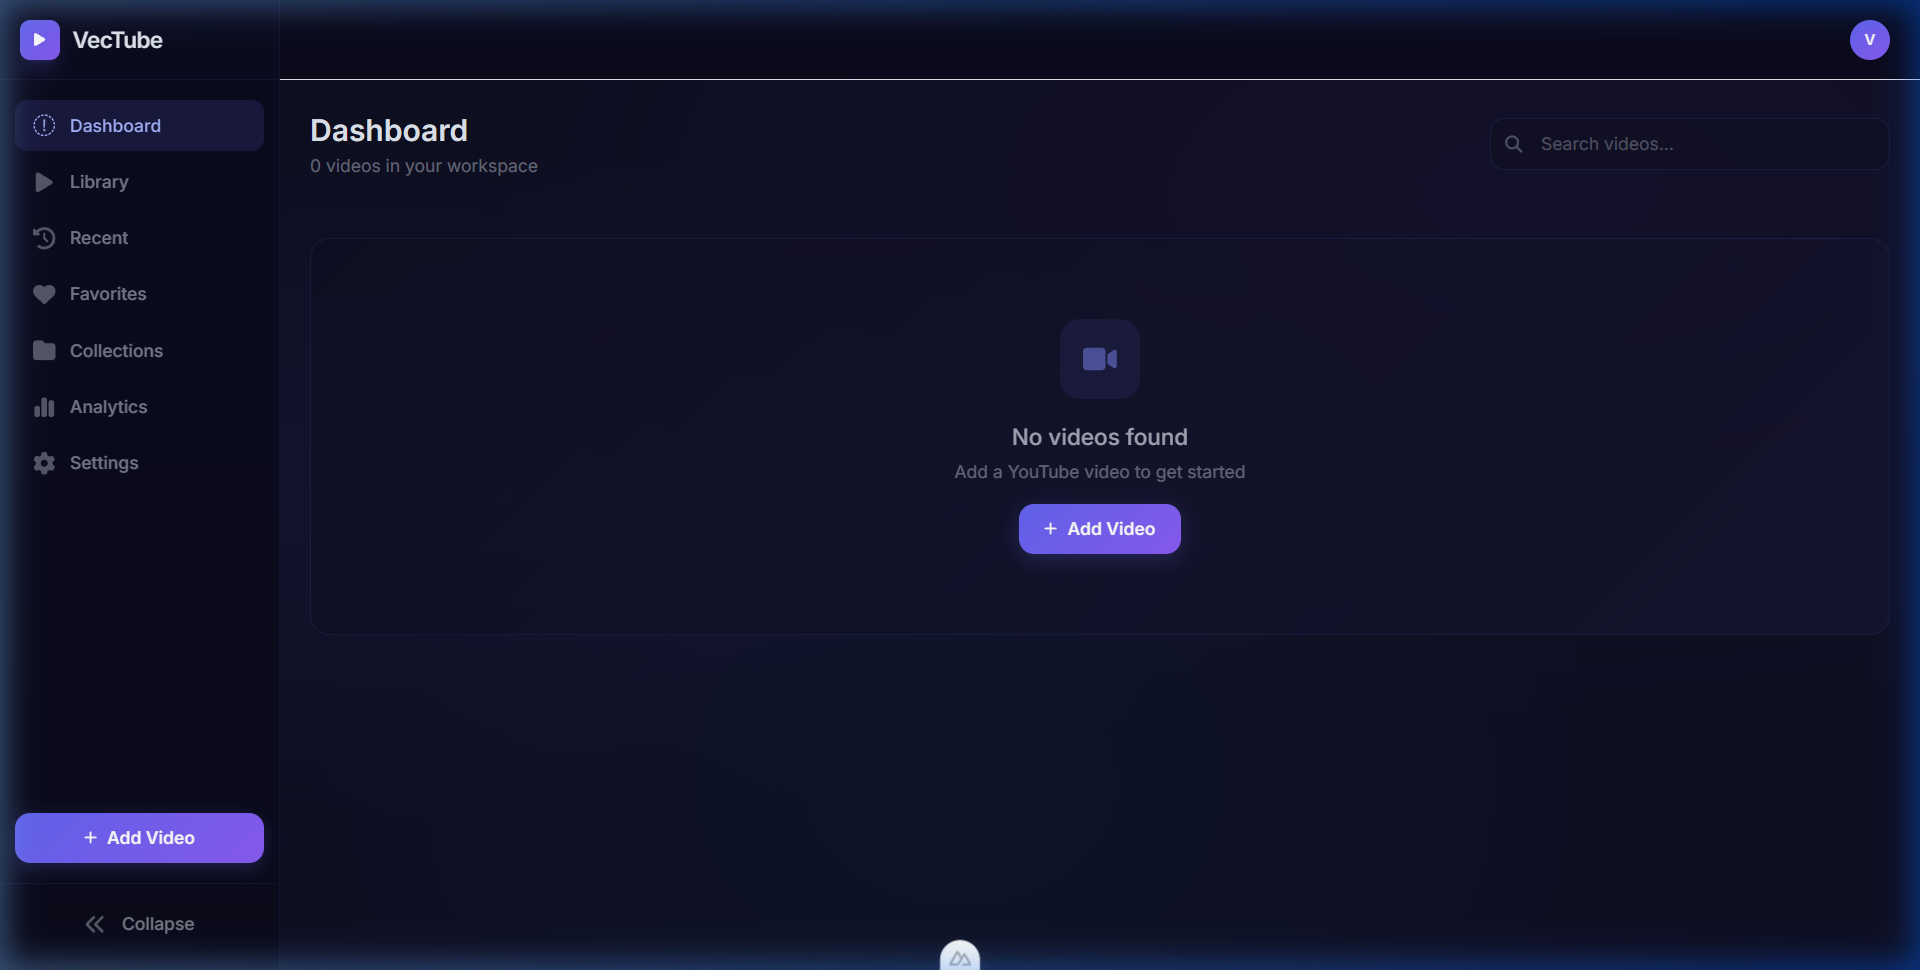
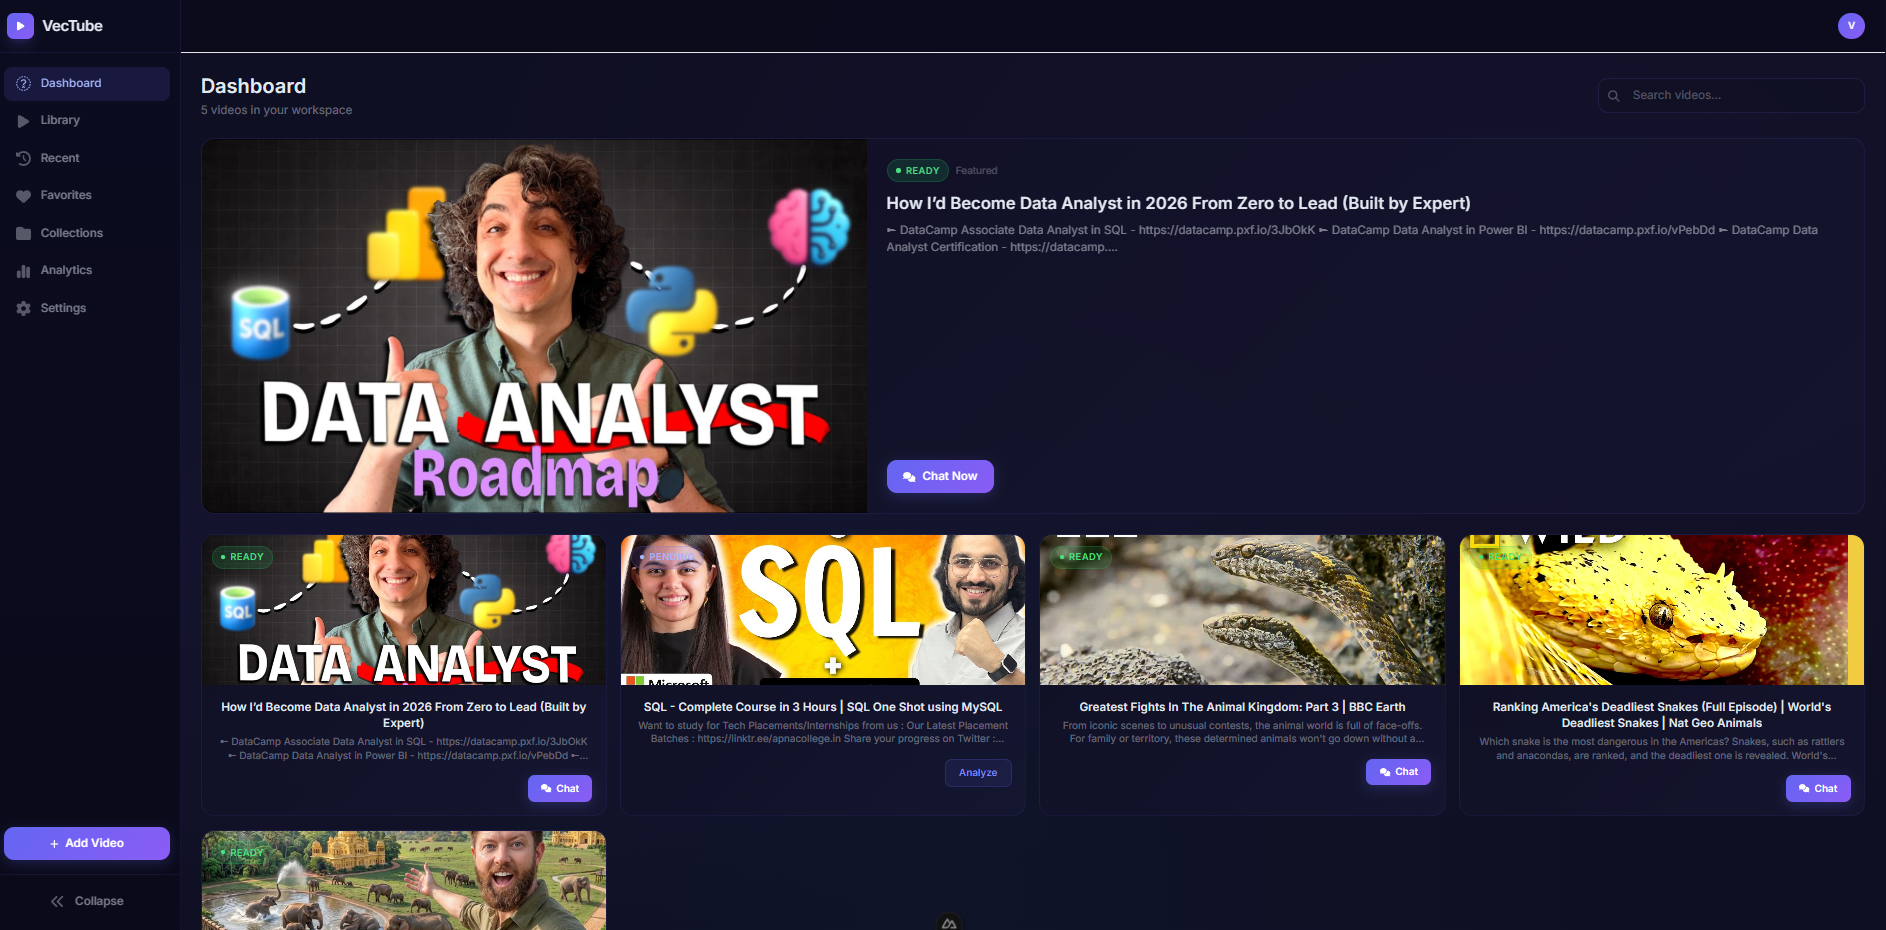
Fixed the README

diff --git a/README.md b/README.md
@@ -7,14 +7,13 @@ VecTube is a production-grade, AI-powered YouTube video summarizer and Q&A assis
 The system features two frontends that connect to the core Python backend engine:
 
 1. **Chrome Extension (Recommended)**: Integrates directly into `youtube.com` watch pages with a floating Action Button (FAB) that triggers a native Side Panel UI for chat and summary.
-   
+   <img src="docs/images/extension.png" alt="Extension" width="400" />
+
    <img src="docs/images/extension-chat.png" alt="Extension Side Panel" width="400" />
 
 2. **Web Application**: A standalone Nuxt.js dashboard for managing and analyzing processed videos.
 
    <img src="docs/images/dashboard.png" alt="Web Dashboard View" width="800" />
-   <br/>
-   <img src="docs/images/dashboard-grid.png" alt="Web Dashboard Grid" width="400" />
 
 ---
 
@@ -28,61 +27,6 @@ The project consists of three core components communicating via REST APIs:
 ### Data Flow & System Diagram
 
 ![VecTube System Architecture](docs/images/architecture.jpg)
-
-```mermaid
-graph TD
-    %% Extension Components
-    subgraph "Chrome Extension (MV3)"
-        CS["Content Script: content/index.js"]
-        SW["Background Service Worker: background/index.js"]
-        Popup["Popup App: PopupApp.vue"]
-        SP["Side Panel App: SidePanelApp.vue"]
-    end
-
-    %% Web UI
-    Web["Web UI Frontend: NuxtJS / DaisyUI"]
-
-    %% Backend Components
-    subgraph "AskTube Backend (VecTube Engine)"
-        Sanic["Sanic Server: server.py"]
-        VideoSvc["Video Service: video_service.py"]
-        ChatSvc["ChatService: chat_service.py"]
-        YTSvc["YouTube Service: youtube_service.py"]
-        AudioProc["Audio Processor: audio_processor.py"]
-    end
-
-    %% DB & AI Layer
-    subgraph "Storage & AI Layer"
-        SQLite[("SQLite Database")]
-        Chroma[("ChromaDB Vector Store")]
-        LLM["LLM/Embedding Providers: Gemini, OpenAI, Claude, Mistral, Ollama, VoyageAI"]
-        Whisper["Faster-Whisper Local STT"]
-    end
-
-    %% Interactions
-    YouTube["YouTube Watch Page"] -->|Injects FAB| CS
-    CS -->|Clicks FAB| SW
-    SW -->|Opens| SP
-    Popup -->|Clicks Chat| SW
-    SP -->|Fetch video details & history| Sanic
-    Web -->|User requests| Sanic
-    
-    Sanic --> YTSvc
-    YTSvc -->|Download & Extract Audio| AudioProc
-    AudioProc -->|Whisper STT| Whisper
-    Whisper -->|Return raw transcript| YTSvc
-    YTSvc -->|Save metadata| SQLite
-    
-    Sanic --> VideoSvc
-    VideoSvc -->|Generate Embeddings| LLM
-    VideoSvc -->|Store Chunks| Chroma
-    
-    Sanic --> ChatSvc
-    ChatSvc -->|Multi-query generation| LLM
-    ChatSvc -->|Query relevant transcript| Chroma
-    ChatSvc -->|Augmented prompt| LLM
-    ChatSvc -->|Save chat history| SQLite
-```
 
 ---
 